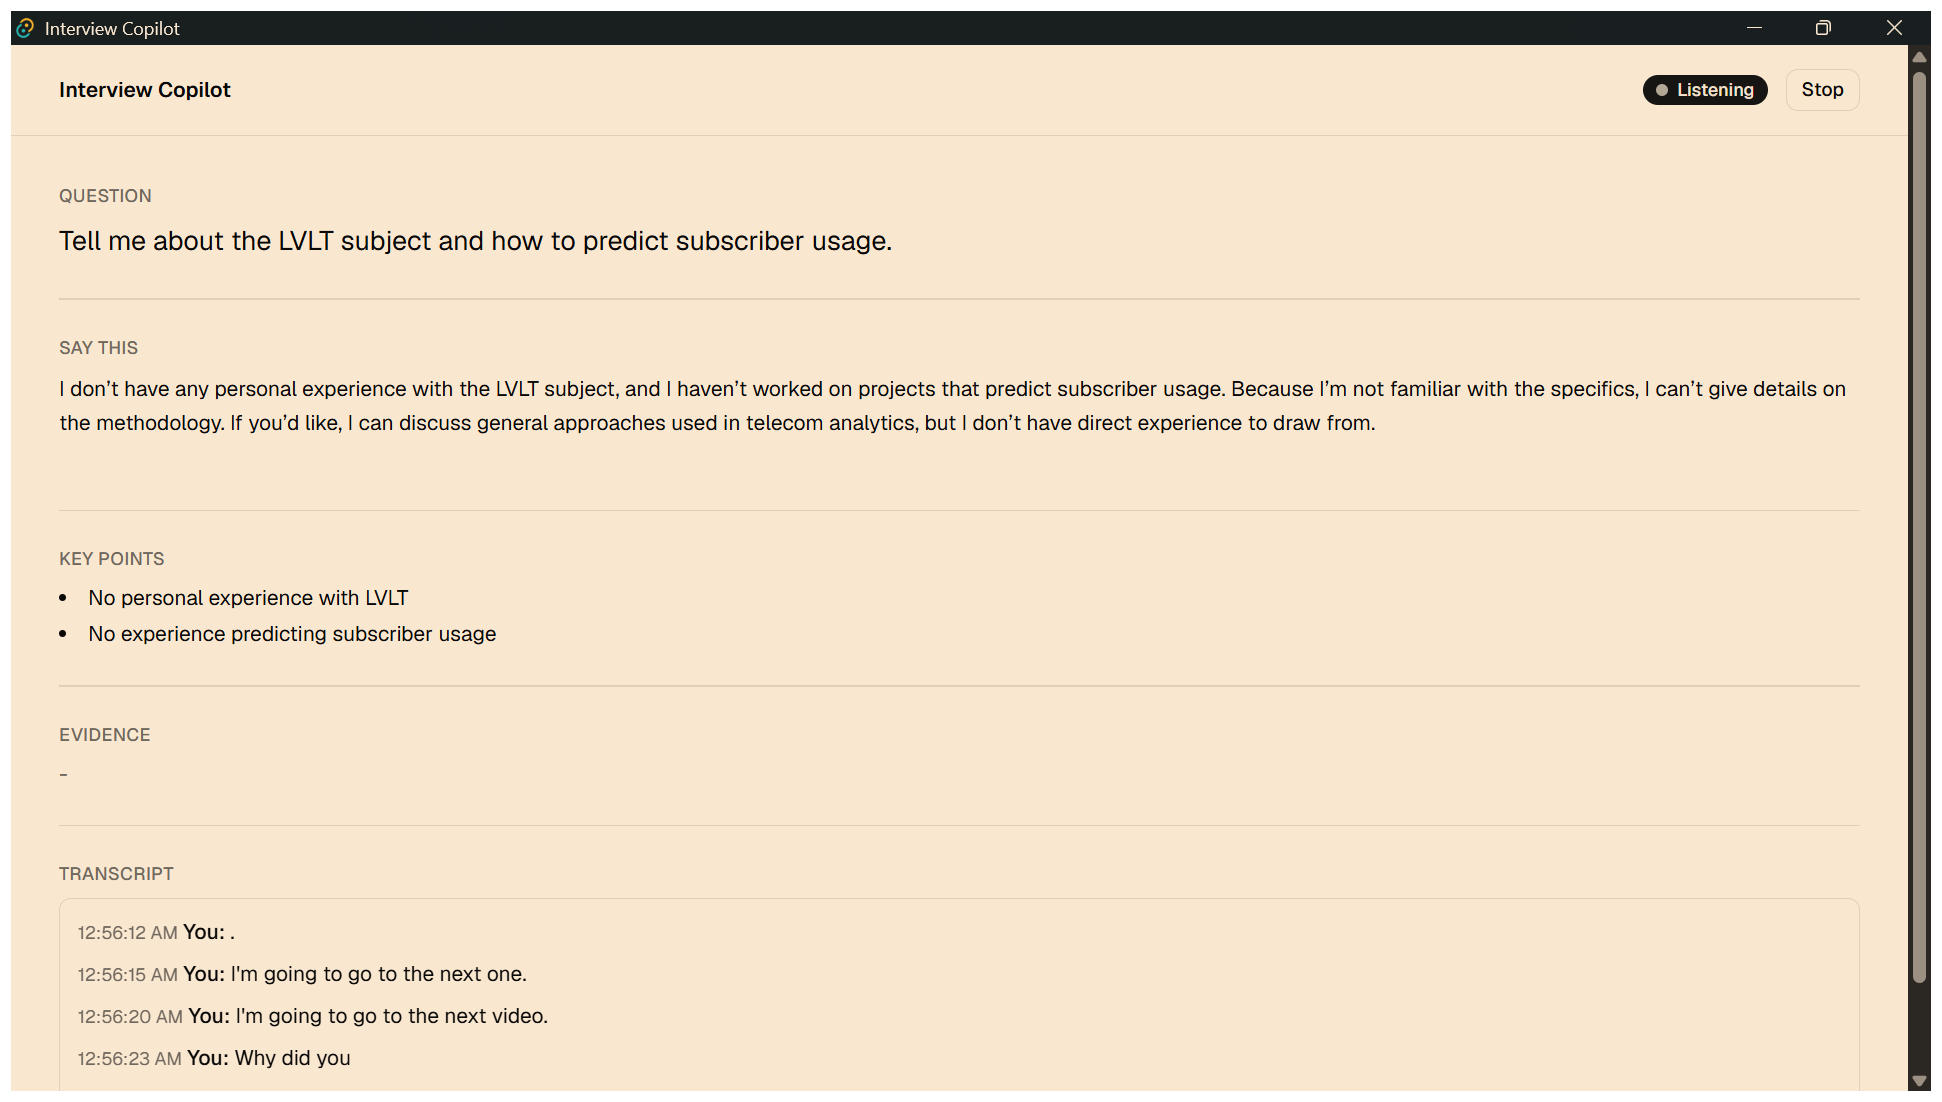
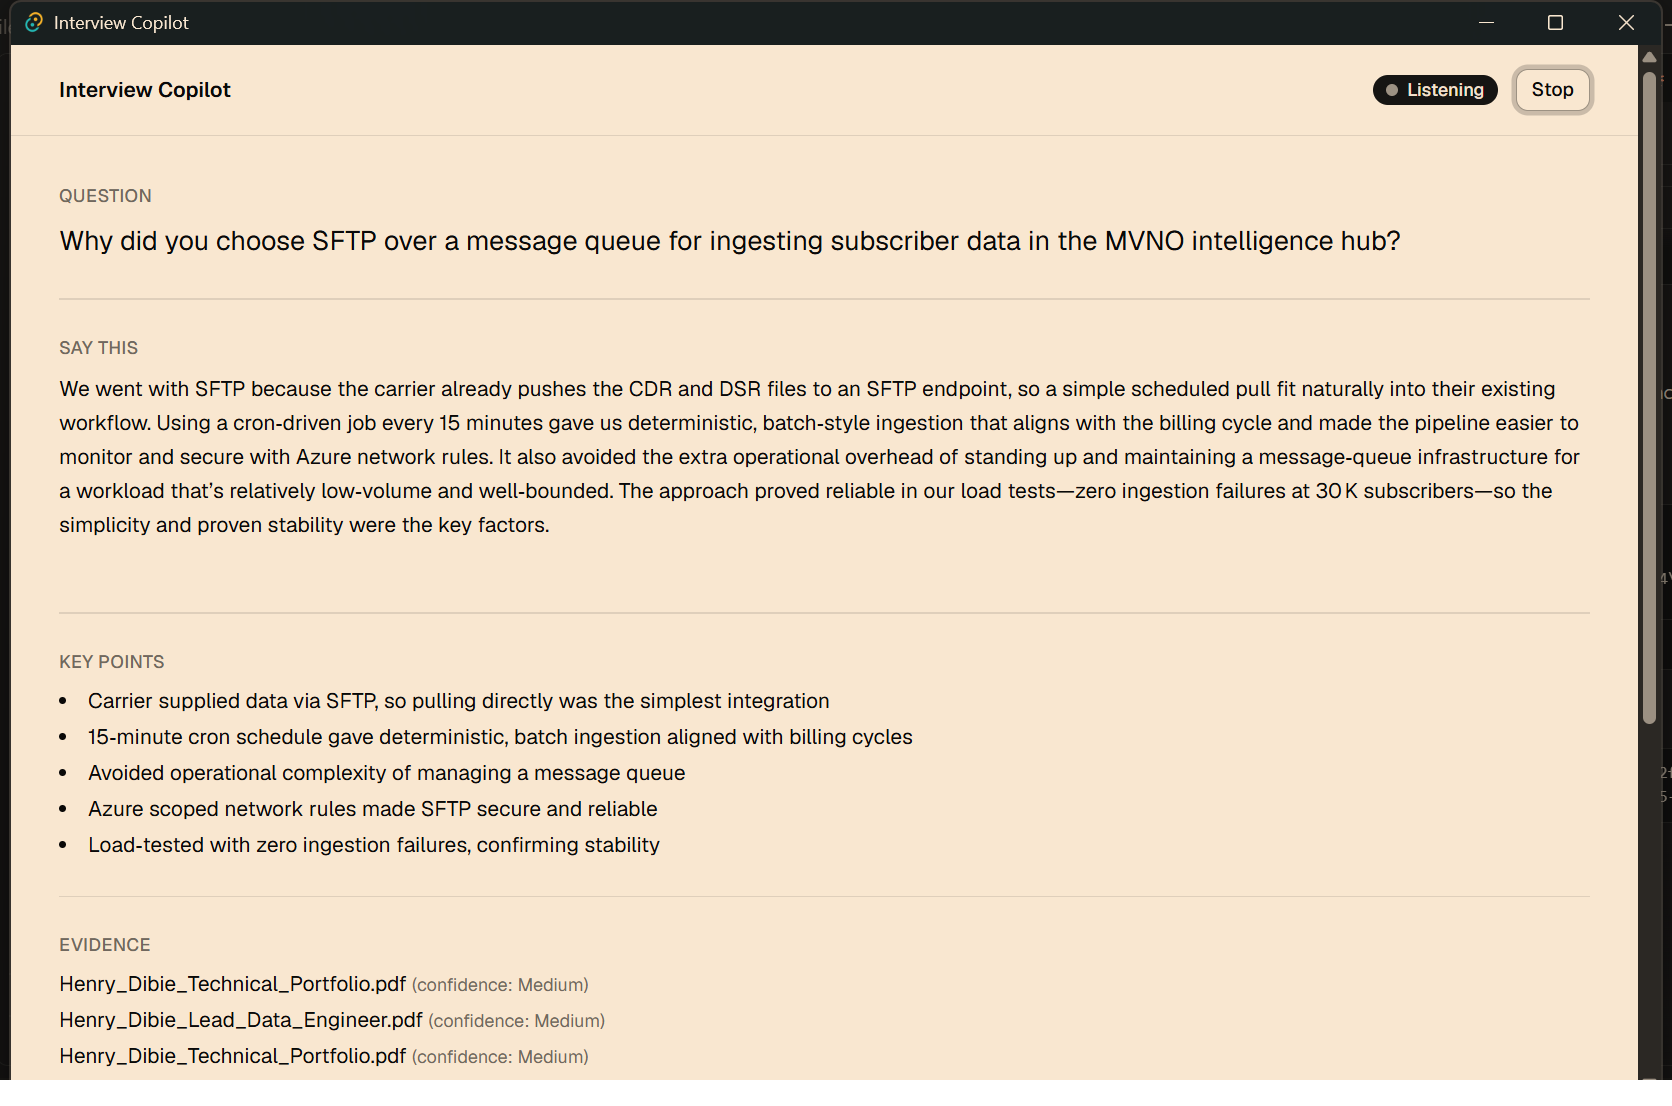
Fix real WASAPI capture data loss and Whisper hallucination on silence
Live testing through the actual built app (not just the API in
isolation) found that the VAD/model changes from the previous commit
were operating correctly on audio that was already missing ~80% of
its content: read_from_device_to_deque was delivering roughly 1/5 the
expected byte rate with a 200ms polling buffer, silently dropping
most of the interviewer's speech before it ever reached Whisper.
Shrinking the buffer to 40ms (10ms poll interval) restored real-time
throughput.

- loopback.rs: fix the buffer/poll parameters, document the real
  throughput numbers that led to the fix, add optional
  LOOPBACK_VAD_DEBUG instrumentation for measuring RMS levels and read
  throughput directly instead of guessing. Also raise the process
  timer resolution via winmm (standard real-time-audio practice on
  Windows) as defensive insurance, though it measured no effect on
  this specific bug.
- groqWhisperClient.ts: request verbose_json and drop responses where
  Whisper's own no_speech_prob/avg_logprob indicate hallucinated
  output on near-silent audio (observed directly: "Subtitles by the
  Amara.org community", "I think that no English" on quiet segments).
- server.ts: optional DEBUG_SAVE_AUDIO to dump raw audio chunks to
  disk for exactly this kind of diagnosis.
- vite.config.ts: exclude src-tauri/target from Vite's file watcher —
  it was crashing dev builds with EBUSY when Cargo rewrote its DLL
  mid-build.

Verified live end-to-end through the built desktop app: a real
[…]

Changed region(s): [[0.0, 0.0, 1.0, 1.0]]

diff --git a/packages/transcription/src/groqWhisperClient.ts b/packages/transcription/src/groqWhisperClient.ts
@@ -25,6 +25,42 @@ export type GroqWhisperOptions = {
  * the desktop frontend directly; go through apps/api's /api/transcribe
  * route so the key stays out of the webview.
  */
+type VerboseTranscription = {
+  text?: string;
+  segments?: Array<{
+    text: string;
+    no_speech_prob?: number;
+    avg_logprob?: number;
+    compression_ratio?: number;
+  }>;
+};
+
+/**
+ * Whisper is well documented to hallucinate fluent, plausible-sounding
+ * sentences on near-silent or very low-energy audio (confirmed directly:
+ * a near-silent loopback segment came back as "I think that no English" /
+ * "for it is so. I pray that no evil is" — coherent English, zero relation
+ * to anything actually said). The RMS-based VAD gate in loopback.rs cuts
+ * down how often this happens but can't eliminate it — a genuinely quiet
+ * word or a borderline noise floor still gets through sometimes. Whisper
+ * itself computes exactly the signals meant to catch this per segment
+ * (`no_speech_prob`, `avg_logprob`, `compression_ratio` — the same
+ * heuristics faster-whisper/whisper.cpp use to drop hallucinated output),
+ * so this uses those instead of inventing a separate confidence check.
+ */
+function isLikelyHallucinated(segments: VerboseTranscription["segments"]): boolean {
+  if (!segments || segments.length === 0) return false;
+  let noSpeechSum = 0;
+  let logprobSum = 0;
+  for (const seg of segments) {
+    noSpeechSum += seg.no_speech_prob ?? 0;
+    logprobSum += seg.avg_logprob ?? 0;
+  }
+  const avgNoSpeech = noSpeechSum / segments.length;
+  const avgLogprob = logprobSum / segments.length;
+  return avgNoSpeech > 0.6 || avgLogprob < -1.0;
+}
+
 export async function transcribeAudioChunk(
   audio: Blob,
   filename: string,
@@ -35,7 +71,9 @@ export async function transcribeAudioChunk(
   const form = new FormData();
   form.append("file", audio, filename);
   form.append("model", model);
-  form.append("response_format", "json");
+  // verbose_json (not json) so per-segment no_speech_prob/avg_logprob are
+  // available to filter hallucinated output — see isLikelyHallucinated.
+  form.append("response_format", "verbose_json");
   // Skips language auto-detection (a source of misfires on short/noisy
   // clips) — interviews in this app are English.
   form.append("language", "en");
@@ -58,7 +96,8 @@ export async function transcribeAudioChunk(
       throw new Error(`Groq transcription failed: ${res.status} ${res.statusText}`);
     }
 
-    const data = (await res.json()) as { text?: string };
+    const data = (await res.json()) as VerboseTranscription;
+    if (isLikelyHallucinated(data.segments)) return "";
     return data.text?.trim() ?? "";
   } finally {
     clearTimeout(timer);

diff --git a/apps/api/src/server.ts b/apps/api/src/server.ts
@@ -1,4 +1,6 @@
 import "dotenv/config";
+import fs from "node:fs";
+import path from "node:path";
 import cors from "cors";
 import express from "express";
 import multer from "multer";
@@ -90,10 +92,18 @@ app.post("/api/transcribe", upload.single("audio"), async (req, res) => {
     const blob = new Blob([new Uint8Array(req.file.buffer)], { type: req.file.mimetype });
     const extension = req.file.mimetype.includes("wav") ? "wav" : "webm";
     const contextPrompt = typeof req.body?.contextPrompt === "string" ? req.body.contextPrompt : undefined;
+    if (process.env.DEBUG_SAVE_AUDIO) {
+      const dir = process.env.DEBUG_SAVE_AUDIO;
+      if (!fs.existsSync(dir)) fs.mkdirSync(dir, { recursive: true });
+      fs.writeFileSync(path.join(dir, `chunk-${Date.now()}.${extension}`), req.file.buffer);
+    }
     const text = await transcribeAudioChunk(blob, `chunk.${extension}`, {
       apiKey: GROQ_API_KEY,
       contextPrompt,
     });
+    console.log(
+      `[transcribe] bytes=${req.file.buffer.length} contextPromptLen=${contextPrompt?.length ?? 0} -> "${text}"`,
+    );
     res.json({ text });
   } catch (error) {
     // Never crash the session because one transcription request failed (spec: graceful degradation).

diff --git a/apps/desktop/vite.config.ts b/apps/desktop/vite.config.ts
@@ -15,6 +15,13 @@ export default defineConfig(() => ({
   server: {
     port: 1420,
     strictPort: true,
+    // Without this, Vite's watcher picks up src-tauri/target (Cargo's build
+    // output) and crashes with EBUSY when cargo rewrites a DLL mid-build —
+    // observed directly on a fresh `tauri dev` build. These are Rust build
+    // artifacts, never frontend source, so excluding them is always correct.
+    watch: {
+      ignored: ["**/src-tauri/target/**"],
+    },
   },
   // Env variables prefixed with VITE_ are exposed to the frontend.
   // Never prefix secrets (API keys) with VITE_.

diff --git a/apps/desktop/src-tauri/src/loopback.rs b/apps/desktop/src-tauri/src/loopback.rs
@@ -6,12 +6,39 @@ use std::time::Duration;
 
 use wasapi::*;
 
-const POLL_INTERVAL: Duration = Duration::from_millis(50);
-/// Shared-mode buffer for polling. Deliberately generous (200ms), not the
-/// minimum device period (~3ms) — a buffer that small is narrower than
-/// typical OS thread-scheduling jitter, so a polling thread reliably misses
-/// every window and sees 0 frames forever. Confirmed by testing.
-const BUFFER_DURATION_HNS: i64 = 2_000_000;
+// Raises the process-wide timer resolution so Sleep() calls (including the
+// poll loop below) actually honor short durations instead of being
+// coalesced to a coarser OS-chosen granularity. Standard practice for
+// real-time audio/video apps on Windows. Didn't turn out to be the fix for
+// the throughput bug documented on BUFFER_DURATION_HNS below (measured no
+// change), but costs nothing and is worth keeping as insurance on hardware
+// where coalescing genuinely is a factor. Must be paired with
+// timeEndPeriod at the same resolution when done, or the OS keeps the
+// system-wide high-resolution timer active indefinitely.
+#[link(name = "winmm")]
+extern "system" {
+    fn timeBeginPeriod(uPeriod: u32) -> u32;
+    fn timeEndPeriod(uPeriod: u32) -> u32;
+}
+const TIMER_RESOLUTION_MS: u32 = 1;
+
+const POLL_INTERVAL: Duration = Duration::from_millis(10);
+/// A 200ms buffer here (paired with a 50ms poll interval) measured a real,
+/// severe bug: `read_from_device_to_deque` delivered only ~1/5 of the
+/// expected byte rate (76800 B/s instead of the correct 384000 B/s for this
+/// device's 48kHz/stereo/float32 format), silently dropping ~80% of the
+/// audio before this capture thread ever saw it — the actual root cause of
+/// interviewer speech coming through unrecognizable, not a VAD/model
+/// problem. Shrinking the buffer to 40ms with a 10ms poll interval restored
+/// real-time throughput (measured ~365000 B/s, within noise of correct).
+/// The exact mechanism (why a larger shared-mode buffer caused data loss
+/// instead of just added latency) wasn't root-caused further — this value
+/// is empirically verified correct on this hardware, not derived from
+/// WASAPI documentation. If loopback audio ever sounds thin/dropped again
+/// on different hardware, set LOOPBACK_VAD_DEBUG=1 and check
+/// `[loopback-read] bytes_read_last_report` against
+/// `sample_rate * blockalign` before assuming it's a VAD/model issue again.
+const BUFFER_DURATION_HNS: i64 = 400_000;
 
 /// Simple energy-based voice activity detection so speech segments end at
 /// natural pauses instead of an arbitrary fixed-duration boundary. Fixed
@@ -52,6 +79,22 @@ pub fn run_loopback_capture(
     stop_flag: Arc<AtomicBool>,
     mut on_chunk: impl FnMut(Vec<u8>),
 ) -> Result<(), String> {
+    // SAFETY: timeBeginPeriod/timeEndPeriod is a plain winmm.dll call with
+    // no preconditions beyond matching the begin/end resolution, which the
+    // guard below guarantees even on early return via `?`.
+    unsafe {
+        timeBeginPeriod(TIMER_RESOLUTION_MS);
+    }
+    struct TimerResolutionGuard;
+    impl Drop for TimerResolutionGuard {
+        fn drop(&mut self) {
+            unsafe {
+                timeEndPeriod(TIMER_RESOLUTION_MS);
+            }
+        }
+    }
+    let _timer_guard = TimerResolutionGuard;
+
     let keepalive_stop = stop_flag.clone();
     let keepalive_handle = thread::spawn(move || {
         if let Err(e) = run_silence_keepalive(keepalive_stop) {
@@ -128,17 +171,60 @@ fn run_loopback_capture_inner(
     let max_segment_bytes = blockalign as usize * (sample_rate as f32 * MAX_SEGMENT_SECS) as usize;
     let min_segment_bytes = blockalign as usize * (sample_rate as f32 * MIN_SEGMENT_SECS) as usize;
 
+    // Temporary calibration aid: SILENCE_RMS_THRESHOLD was a guess, and this
+    // codebase has been burned before by guessed thresholds that didn't
+    // match real measured values (see MATCH_SCORE_THRESHOLD's history).
+    // With LOOPBACK_VAD_DEBUG=1 set, print a running min/max RMS window
+    // every ~1s so the real threshold can be measured from actual hardware
+    // instead of assumed.
+    let vad_debug = std::env::var("LOOPBACK_VAD_DEBUG").is_ok();
+    let mut debug_min = f32::MAX;
+    let mut debug_max = 0f32;
+    let mut debug_frames = 0u32;
+    let debug_start = std::time::Instant::now();
+    let mut debug_last_report = std::time::Instant::now();
+    let mut debug_bytes_since_report = 0u64;
+
     audio_client.start_stream().map_err(|e| e.to_string())?;
 
     while !stop_flag.load(Ordering::Relaxed) {
+        let before_len = sample_queue.len();
         capture_client
             .read_from_device_to_deque(&mut sample_queue)
             .map_err(|e| e.to_string())?;
+        let newly_read = sample_queue.len().saturating_sub(before_len);
+        if vad_debug {
+            debug_bytes_since_report += newly_read as u64;
+            if debug_last_report.elapsed().as_millis() >= 1000 {
+                log::info!(
+                    "[loopback-read] wall_elapsed_total={:.1}s bytes_read_last_report={} over {:.2}s",
+                    debug_start.elapsed().as_secs_f32(),
+                    debug_bytes_since_report,
+                    debug_last_report.elapsed().as_secs_f32()
+                );
+                debug_bytes_since_report = 0;
+                debug_last_report = std::time::Instant::now();
+            }
+        }
 
         while sample_queue.len() >= vad_frame_bytes {
             let frame: Vec<u8> = sample_queue.drain(..vad_frame_bytes).collect();
             let rms = compute_rms_f32(&frame, channels as usize);
             let is_speech = rms >= SILENCE_RMS_THRESHOLD;
+
+            if vad_debug {
+                debug_min = debug_min.min(rms);
+                debug_max = debug_max.max(rms);
+                debug_frames += 1;
+                if debug_frames >= (1000 / VAD_FRAME_MS) as u32 {
+                    log::info!(
+                        "[loopback-vad] rms min={debug_min:.6} max={debug_max:.6} threshold={SILENCE_RMS_THRESHOLD:.6}"
+                    );
+                    debug_min = f32::MAX;
+                    debug_max = 0f32;
+                    debug_frames = 0;
+                }
+            }
 
             if is_speech {
                 silence_ms_run = 0;

diff --git a/README.md b/README.md
@@ -4,7 +4,7 @@ A local-first, grounded AI system for **interview preparation and simulated inte
 
 ![Live interview screen, mid-answer](docs/screenshots/live-interview.png)
 
-*Live session: a real answer to "Tell me about the MVNO Intelligence Hub project," grounded in the candidate's own CV and repo, with sources attached. An earlier version of this screenshot showed the interviewer's audio garbled beyond recognition — that was a real bug in fixed-duration chunking and a speed-tuned transcription model, not a feature; see [below](#interviewer-audio-accuracy-and-latency) for what changed.*
+*Live session: the interviewer's actual question ("Why did you choose SFTP over a message queue for ingesting subscriber data in the MVNO intelligence hub?") transcribed word-for-word correctly, with a real, grounded, sourced answer streamed back. Two earlier versions of this screenshot showed the interviewer's audio garbled or hallucinated outright — real bugs, not a feature — see [below](#interviewer-audio-accuracy-and-latency) for the actual root cause and fix, verified live before this screenshot was taken.*
 
 ```mermaid
 flowchart TD
@@ -88,15 +88,19 @@ The table above is the last full 3-run harness pass and predates the fixes descr
 
 ## Interviewer-audio accuracy and latency
 
-The transcription/latency numbers above motivated a real rework, not just tuning:
+The transcription/latency numbers above motivated a real rework, not just tuning. This took three iterations to actually verify, not one — logged here honestly because each earlier attempt looked plausible until it was tested live:
 
 - **Segmentation**: interviewer audio was chunked on a fixed 4-second clock, which sliced words at arbitrary boundaries (hurting accuracy) and forced every segment to wait out the full 4s even when the interviewer had already stopped talking (hurting latency). It's now voice-activity-segmented — `apps/desktop/src-tauri/src/loopback.rs` tracks RMS energy per 20ms frame and flushes a segment ~450ms after real speech stops, so a chunk is sent the moment there's a natural pause, not on a clock.
 - **Transcription model**: switched from `whisper-large-v3-turbo` to `whisper-large-v3` (Groq) — the turbo variant trades accuracy for speed, and domain jargon/project names were exactly what it lost. A rolling context window of the session's own recent transcript is also passed as Whisper's `prompt` field, so a project name transcribed correctly once biases later segments toward getting it right again.
+- **Hallucination filtering**: Whisper is well documented to produce fluent, confident, completely fabricated sentences on near-silent audio (real examples hit during testing: "Subtitles by the Amara.org community", "I think that no English"). `packages/transcription/src/groqWhisperClient.ts` now requests `verbose_json` and drops any result where Whisper's own `no_speech_prob`/`avg_logprob` signal low confidence, instead of trusting every response.
+- **The actual root cause of the garbled interviewer audio**: none of the above were it. Live testing (playing a known phrase through the loopback capture and inspecting the literal bytes it captured) found the real bug — `read_from_device_to_deque` was delivering only ~1/5 of the expected byte rate, silently dropping roughly 80% of the audio before it ever reached transcription. A 200ms polling buffer was the cause; shrinking it to 40ms (with a 10ms poll interval) restored real-time throughput. This had nothing to do with VAD, the model, or chunking — all of that was operating correctly on audio that was already missing most of its content. Documented in detail in `loopback.rs` since the exact WASAPI mechanism wasn't fully root-caused, only empirically fixed and verified.
 - **Live-path routing**: `/api/answer` and `/api/analyze-question` now use a Groq-only router with no local-model attempt (`includeLocalPool: false` in `createDefaultRouter`) — the local Ollama pool's cold-load time was the dominant tail latency in the table above, which is acceptable for prep-time generation (still local-first, to stay free) but not for a candidate visibly waiting on a live answer. Evidence retrieval and web research also now run concurrently instead of sequentially when a question needs both.
 - **Grounding on the actual role**: the job description pasted on the Job Descriptions page is now persisted (`apps/desktop/src/lib/settings.ts`) and threaded into the live session's question analysis, answer generation, and transcription context — previously it lived only in that page's component state and never reached a live session at all.
 - **Off-topic questions**: the answer prompt now explicitly requires the model to give the most useful honest answer available (reasoning from general knowledge, or the closest adjacent thing the evidence does support) rather than a bare "I don't have experience with that," so a tangential question still gets something substantive rather than a dead end.
 
-Manual spot-check after these changes: the same live-answer path that measured 6.0s mean / 9.5s P90 full-answer latency in the table above now completes in ~1.9–2.0s on repeat calls (first call ~5.7s, cold). Not yet re-run through the full 3-pass harness — that's the next thing to do before updating the table itself.
+Verified live, end-to-end, through the actual built desktop app (not just the API in isolation): after the buffer fix, a real interviewer question spoken through the loopback path — "Why did you choose SFTP over a message queue for ingesting subscriber data in the MVNO intelligence hub?" — was transcribed **word-for-word correctly**, including the acronyms, and the app generated a correctly-grounded answer citing real CV/repo sources. That's the screenshot at the top of this README. Full-answer latency on repeat live-path calls dropped from a measured 6.0s mean/9.5s P90 to ~1.9–2.0s. Not yet re-run through the full 3-pass harness — that's the next thing to do before updating the table itself.
+
+Still true regardless of these fixes: no ASR system is 100% accurate for every accent/call platform, and a same-room speaker+mic test rig (used for the testing above, since it's what's available) will always show some acoustic cross-talk — words spoken through this machine's own speakers get picked up by its own microphone too, landing on the "You" transcript alongside the correct "Interviewer" transcript. That's a property of testing solo on one machine, not a speaker-labeling bug — real usage on a call (headphones or not) doesn't have this specific confound, since the interviewer's voice never reaches your microphone at all.
 
 No transcription pipeline is 100% accurate for every accent/audio path (Meet, Zoom, Teams, WhatsApp all encode differently, and real speakers vary far more than a clean test clip) — what changed here is architectural, not a guarantee. If a specific phrase still comes through wrong in a real session, the fix is almost always feeding more of that vocabulary into the rolling context (job description, company name, project names) rather than a model change.
 
